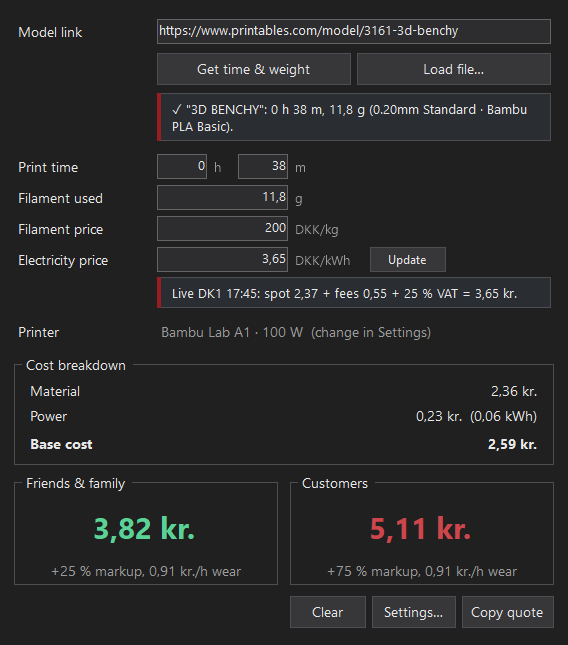
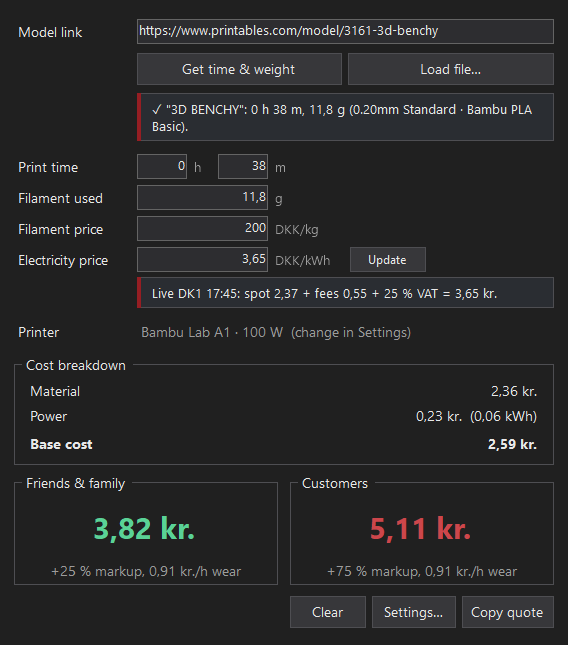
v1.2.2: Even label gaps, aligned boxes, red divider in Settings, new screenshot
Smaller, even gap between labels and boxes in both windows.
Boxes in the main window line up on the right.
Red line down the middle of Settings.
New README screenshot.

diff --git a/src/MainForm.cs b/src/MainForm.cs
@@ -61,18 +61,19 @@ namespace PrintPrice
 
             // ---------- Inputs ----------
             var inputs = new TableLayoutPanel { ColumnCount = 3, AutoSize = true, Margin = new Padding(0, 0, 0, 8) };
-            inputs.ColumnStyles.Add(new ColumnStyle(SizeType.Absolute, 140));
+            // label column as wide as the longest label + Theme.LabelGap (~30 px gap to the boxes)
+            inputs.ColumnStyles.Add(new ColumnStyle(SizeType.AutoSize));
             inputs.ColumnStyles.Add(new ColumnStyle(SizeType.AutoSize));
             inputs.ColumnStyles.Add(new ColumnStyle(SizeType.AutoSize));
 
-            // link box spans to the right edge of the panels below (540 px wide content)
-            txtUrl = new TextBox { Width = 394 };
+            // link box, buttons and info boxes end at the Cost breakdown's right edge (widths set on Load, see below)
+            txtUrl = new TextBox { Width = 394, Margin = new Padding(3, 3, 0, 3) };
             // grey example text while empty; re-applied whenever the handle is recreated (e.g. theme change)
             txtUrl.HandleCreated += delegate { SetCueBanner(txtUrl, "e.g. https://www.printables.com/model/3161-3d-benchy"); };
             AddRow(inputs, "Model link", txtUrl, null);
             inputs.SetColumnSpan(txtUrl, 2);
 
-            // two equal buttons lined up exactly under the link box
+            // two equal buttons lined up exactly under the link box (widths set on Load)
             btnAnalyze = new Button { Text = "Get time && weight", Width = 194, Height = 32, Margin = new Padding(3, 6, 6, 4) };
             btnLoadFile = new Button { Text = "Load file…", Width = 194, Height = 32, Margin = new Padding(0, 6, 0, 4) };
             btnAnalyze.Click += delegate { AnalyzeClicked(); };
@@ -82,7 +83,7 @@ namespace PrintPrice
             autoRow.Controls.Add(btnLoadFile);
             AddRow(inputs, "", autoRow, null);
             inputs.SetColumnSpan(autoRow, 2);
-            lblAuto = new InfoBox(394, 9.5f) { Margin = new Padding(3, 4, 3, 10) };
+            lblAuto = new InfoBox(394, 9.5f) { Margin = new Padding(3, 4, 0, 10) };
             AddRow(inputs, "", lblAuto, null);
             inputs.SetColumnSpan(lblAuto, 2);
 
@@ -123,7 +124,7 @@ namespace PrintPrice
             btnPower.Click += delegate { FetchPowerPrice(); };
             elecRow.Controls.Add(btnPower);
             AddRow(inputs, "Electricity price", elecRow, null);
-            lblPowerInfo = new InfoBox(394, 9.5f) { Margin = new Padding(3, 2, 3, 8) };
+            lblPowerInfo = new InfoBox(394, 9.5f) { Margin = new Padding(3, 2, 0, 8) };
             AddRow(inputs, "", lblPowerInfo, null);
             inputs.SetColumnSpan(lblPowerInfo, 2);
             lblPrinter = new Label { AutoSize = true, Tag = "muted", Margin = new Padding(3, 4, 3, 4) };
@@ -143,6 +144,19 @@ namespace PrintPrice
             bt.Controls.Add(baseCap, 0, 2); bt.Controls.Add(lblBase, 1, 2);
             grpBreak.Controls.Add(bt);
             root.Controls.Add(grpBreak);
+            Load += delegate
+            {
+                // link box, the two buttons and both info boxes end exactly at the Cost breakdown's right edge
+                // (measured, so it stays lined up at any DPI and whatever the label column's width)
+                int edge = grpBreak.Parent.PointToScreen(new Point(grpBreak.Right, 0)).X;
+                int w = edge - txtUrl.Parent.PointToScreen(new Point(txtUrl.Left, 0)).X;
+                txtUrl.Width = w;
+                lblAuto.SetWidth(w);
+                lblPowerInfo.SetWidth(w);
+                int gap = btnAnalyze.Margin.Right;
+                btnAnalyze.Width = (w - gap) / 2;
+                btnLoadFile.Width = w - gap - btnAnalyze.Width;
+            };
 
             // ---------- Prices ----------
             var prices = new TableLayoutPanel { ColumnCount = 2, AutoSize = true, Margin = new Padding(0, 0, 0, 8) };
@@ -526,7 +540,7 @@ namespace PrintPrice
             int row = t.RowCount++;
             t.RowStyles.Add(new RowStyle(SizeType.AutoSize));
             if (caption.Length > 0)   // no empty caption label, so rows holding a hidden info box collapse fully
-                t.Controls.Add(new Label { Text = caption, AutoSize = true, Anchor = AnchorStyles.Left, Margin = new Padding(0, 6, 8, 6) }, 0, row);
+                t.Controls.Add(new Label { Text = caption, AutoSize = true, Anchor = AnchorStyles.Left, Margin = new Padding(0, 6, Theme.LabelGap, 6) }, 0, row);
             input.Anchor = AnchorStyles.Left;
             t.Controls.Add(input, 1, row);
             if (extra != null) { extra.Anchor = AnchorStyles.Left; t.Controls.Add(extra, 2, row); }

diff --git a/src/SettingsForm.cs b/src/SettingsForm.cs
@@ -18,6 +18,7 @@ namespace PrintPrice
         public Action<UpdateInfo> UpdateFound;
         ComboBox cmbNozzle, cmbProcess, cmbFilament, cmbBed, cmbArea;
         InfoBox lblWear;
+        Panel divider;   // red line between the two columns
         bool filling;   // suppress change events while filling the form
 
         public SettingsForm(AppSettings current)
@@ -37,12 +38,16 @@ namespace PrintPrice
             AutoSizeMode = AutoSizeMode.GrowAndShrink;
 
             // two columns: left = pricing, right = printer setup & live price; buttons underneath
-            var outer = new TableLayoutPanel { ColumnCount = 2, AutoSize = true, Padding = new Padding(14, 2, 14, 14), Margin = Padding.Empty };
+            // no top padding, so the red divider starts right under the title bar; the columns keep their 2 px top margin
+            var outer = new TableLayoutPanel { ColumnCount = 3, AutoSize = true, Padding = new Padding(14, 0, 14, 14), Margin = Padding.Empty };
             Controls.Add(outer);
-            var t = new TableLayoutPanel { ColumnCount = 3, AutoSize = true, Margin = new Padding(0, 0, 28, 0) };
-            var t2 = new TableLayoutPanel { ColumnCount = 3, AutoSize = true, Margin = Padding.Empty };
+            var t = new TableLayoutPanel { ColumnCount = 3, AutoSize = true, Margin = new Padding(0, 2, 0, 0) };
+            var t2 = new TableLayoutPanel { ColumnCount = 3, AutoSize = true, Margin = new Padding(0, 2, 0, 0) };
+            // red divider centred in the 28 px gap (13 + 2 + 13), from the top down to just above the bottom row
+            divider = new Panel { Width = 2, Anchor = AnchorStyles.Top | AnchorStyles.Bottom, Margin = new Padding(13, 0, 13, 0) };
             outer.Controls.Add(t, 0, 0);
-            outer.Controls.Add(t2, 1, 0);
+            outer.Controls.Add(divider, 1, 0);
+            outer.Controls.Add(t2, 2, 0);
 
             // ----- left: pricing -----
             Section(t, "Pricing");
@@ -117,7 +122,7 @@ namespace PrintPrice
             buttons.Controls.Add(lblCheck);
             SetCheckText("v" + Updater.CurrentText + " –", "check now", null);
             outer.Controls.Add(bottom, 0, 1);
-            outer.SetColumnSpan(bottom, 2);
+            outer.SetColumnSpan(bottom, 3);
 
             // live updates
             cmbNozzle.SelectedIndexChanged += delegate { if (!filling) { RefillPresets(); UpdateWear(); } };
@@ -128,6 +133,7 @@ namespace PrintPrice
             AcceptButton = ok;
             CancelButton = cancel;
             Theme.Apply(this);
+            divider.BackColor = Theme.InfoAccent;   // after Apply, which paints panels in the background colour
             ResumeLayout(true);
             Fill(current);
         }
@@ -143,7 +149,7 @@ namespace PrintPrice
         // ---------- layout helpers ----------
         static Label Caption(string text)
         {
-            return new Label { Text = text, AutoSize = true, Anchor = AnchorStyles.Left, Margin = new Padding(0, 6, 10, 6) };
+            return new Label { Text = text, AutoSize = true, Anchor = AnchorStyles.Left, Margin = new Padding(0, 6, Theme.LabelGap, 6) };
         }
 
         TextBox Row(TableLayoutPanel t, string caption, string unit, string hint)

diff --git a/src/Theme.cs b/src/Theme.cs
@@ -24,6 +24,10 @@ namespace PrintPrice
         public static readonly Color InfoAccent = Color.FromArgb(150, 30, 35);    // dark red
         public static readonly Color Warning = Color.FromArgb(240, 180, 70);
 
+        /// Right margin after a row caption (96 dpi units): ~30 px clear gap to the box after the longest label,
+        /// in the main window and Settings alike (label columns are AutoSize, so this follows the real text width).
+        public const int LabelGap = 21;
+
         /// Label drawn with grayscale anti-aliasing: ClearType colour fringes make thin grey text look tinted.
         public class PlainLabel : Label
         {
@@ -171,6 +175,16 @@ namespace PrintPrice
 
         /// Usable text width; read at runtime so it follows DPI scaling of the box.
         int InnerWidth { get { return Math.Max(50, MaximumSize.Width - Padding.Horizontal - 2); } }
+
+        /// New width in real pixels (e.g. measured on Load); the text rewraps to it.
+        public void SetWidth(int width)
+        {
+            MaximumSize = new Size(width, 0);
+            MinimumSize = new Size(width, 0);
+            label.MaximumSize = new Size(InnerWidth, 0);
+            if (grid != null) grid.MinimumSize = new Size(InnerWidth, 0);
+            if (note != null) note.MaximumSize = new Size(InnerWidth, 0);
+        }
 
         Label NewLabel()
         {

diff --git a/src/AssemblyInfo.cs b/src/AssemblyInfo.cs
@@ -6,8 +6,8 @@ using System.Reflection;
 [assembly: AssemblyDescription("Price quotes for 3D prints on a Bambu Lab A1")]
 [assembly: AssemblyCompany("Gettic")]
 [assembly: AssemblyCopyright("Copyright © 2026 Gettic")]
-[assembly: AssemblyVersion("1.2.1.0")]
-[assembly: AssemblyFileVersion("1.2.1.0")]
+[assembly: AssemblyVersion("1.2.2.0")]
+[assembly: AssemblyFileVersion("1.2.2.0")]
 
 namespace PrintPrice
 {
